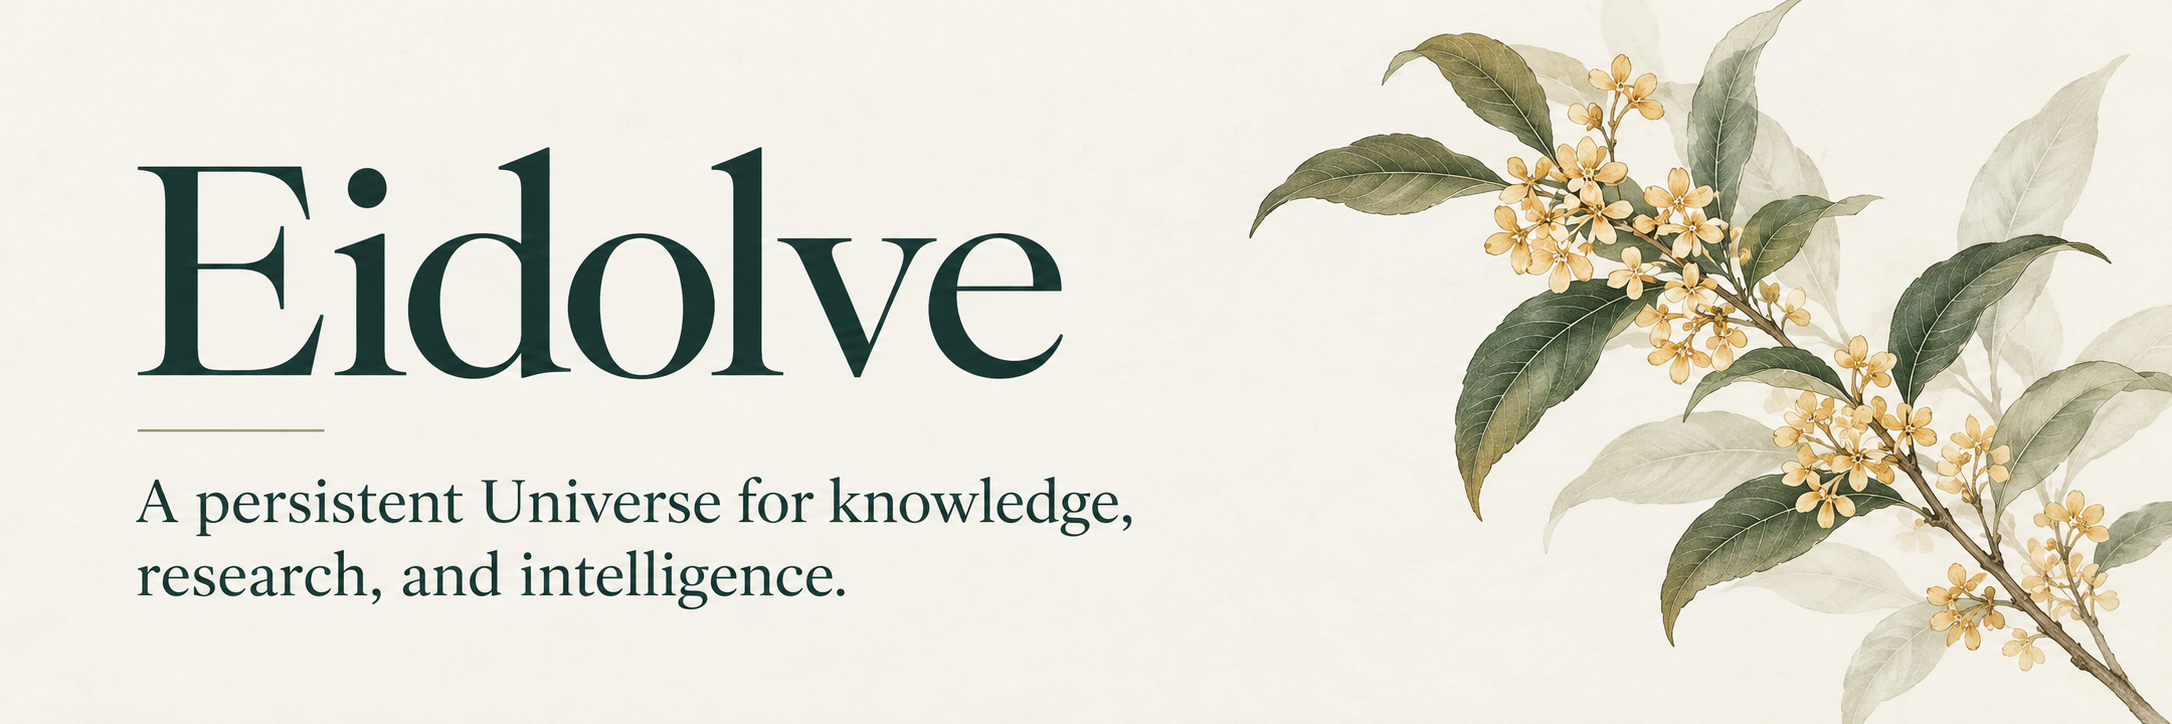
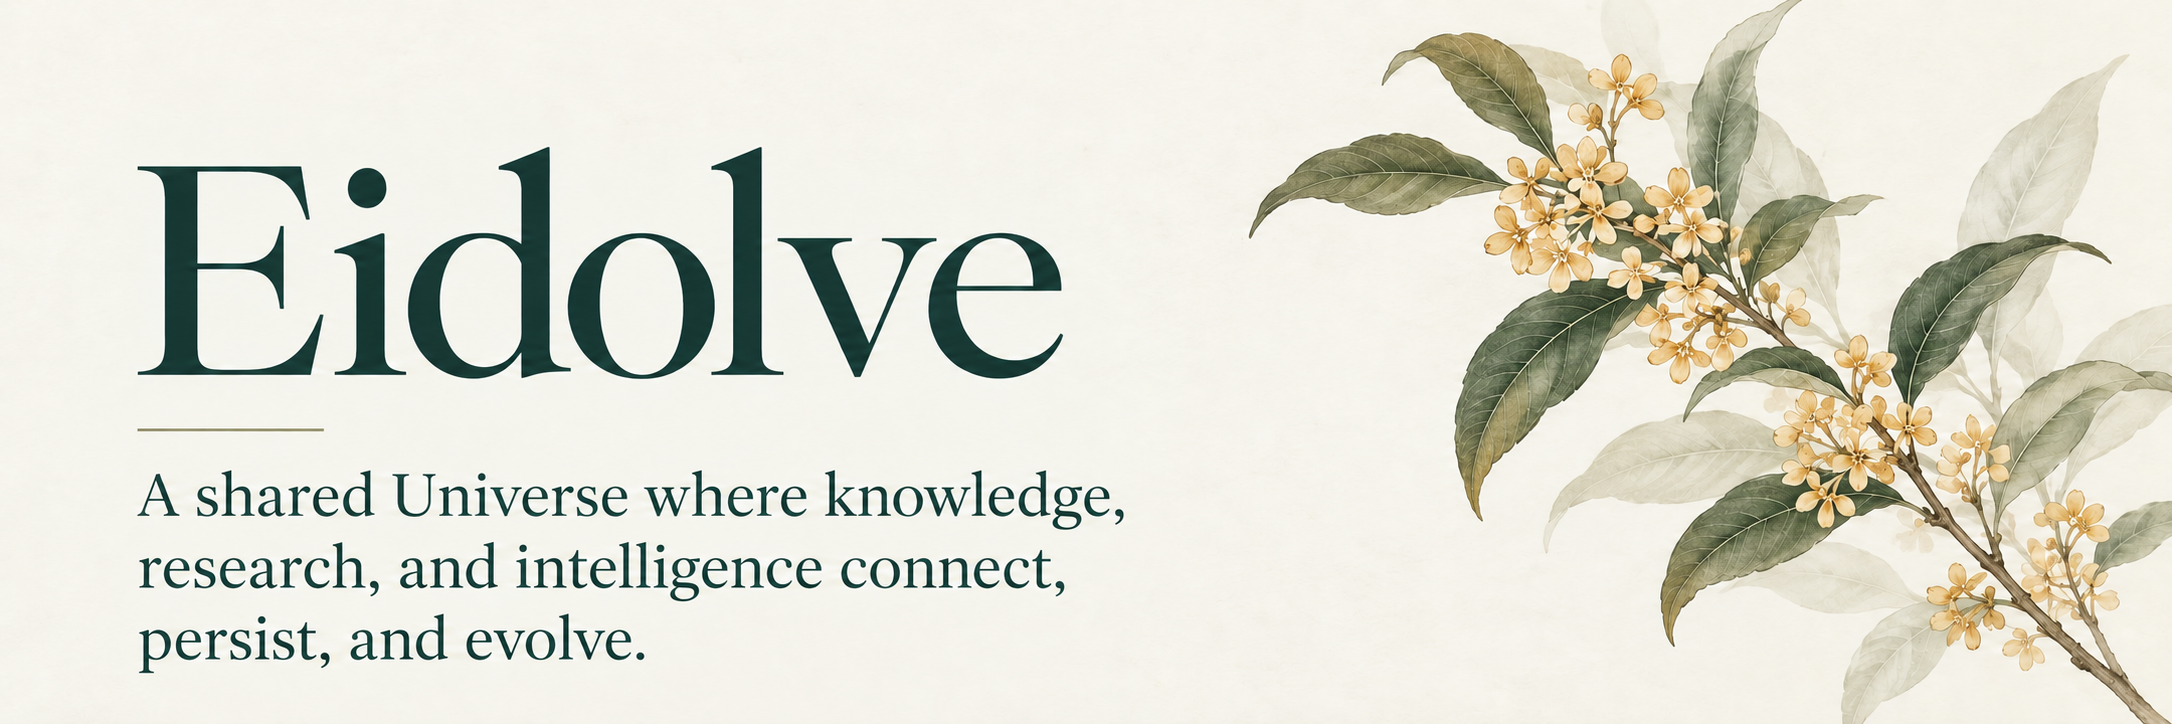
Express the project vision in the osmanthus masthead

diff --git a/README.md b/README.md
@@ -1,5 +1,5 @@
 <p>
-  <img src="assets/readme-header.png" alt="Eidolve — A persistent Universe for knowledge, research, and intelligence." width="1280">
+  <img src="assets/readme-header.png" alt="Eidolve — A shared Universe where knowledge, research, and intelligence connect, persist, and evolve." width="1280">
 </p>
 
 [Universe](docs/UNIVERSE.md) · [Foundations](docs/FOUNDATIONS.md) · [Architecture](docs/ARCHITECTURE.md) · [Research agenda](docs/RESEARCH.md)
